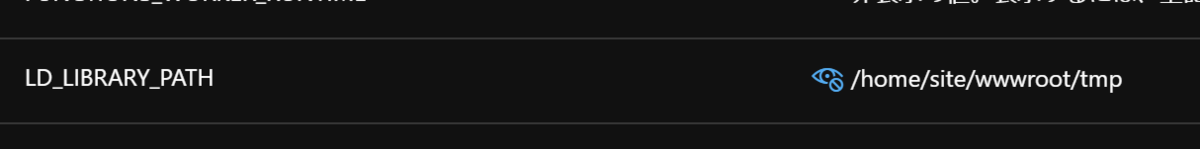
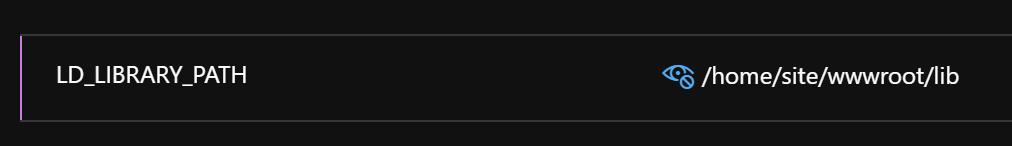
update images

diff --git a/README.md b/README.md
@@ -23,8 +23,8 @@ This is **unofficial** sample project of Azure Functions for python with OpenCV
      import cv2
      ```
 
-     After merging the PR, you will not need above code, just setting the path including the SO libraries (i.e. `/home/site/wwwroot/tmp` ) to App Setting `LD_LIBRARY_PATH`.<br>
-    ![](LD_LIBRARY_PATH.png)
+     After merging the PR, you will not need above code, just setting the path including the SO libraries (i.e. `/home/site/wwwroot/lib` ) to App Setting `LD_LIBRARY_PATH`.<br>
+     ![](./LD_LIBRARY_PATH.png)
 
 The http trigger function can comvert image, which is specified by `image_url` query parameter, to grayscale image using `cv2.imread`, `cv2.cvtColor` and `cv2.imwrite`
 
